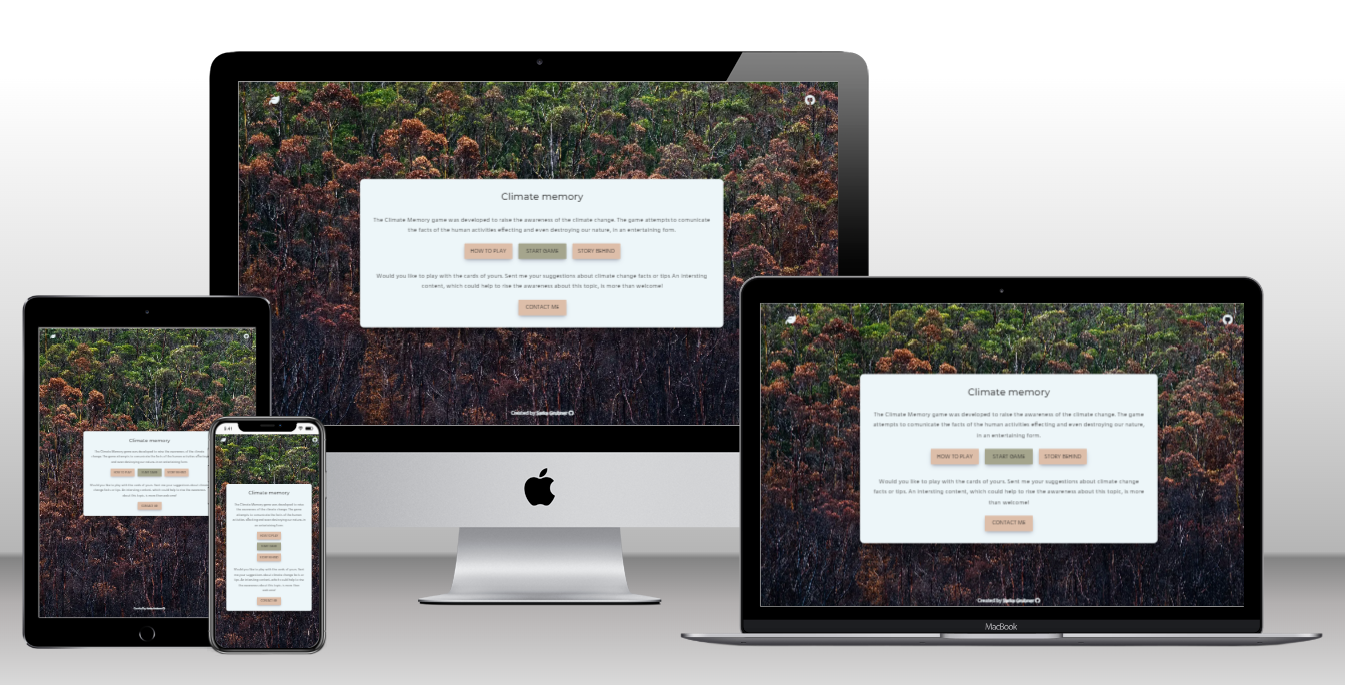
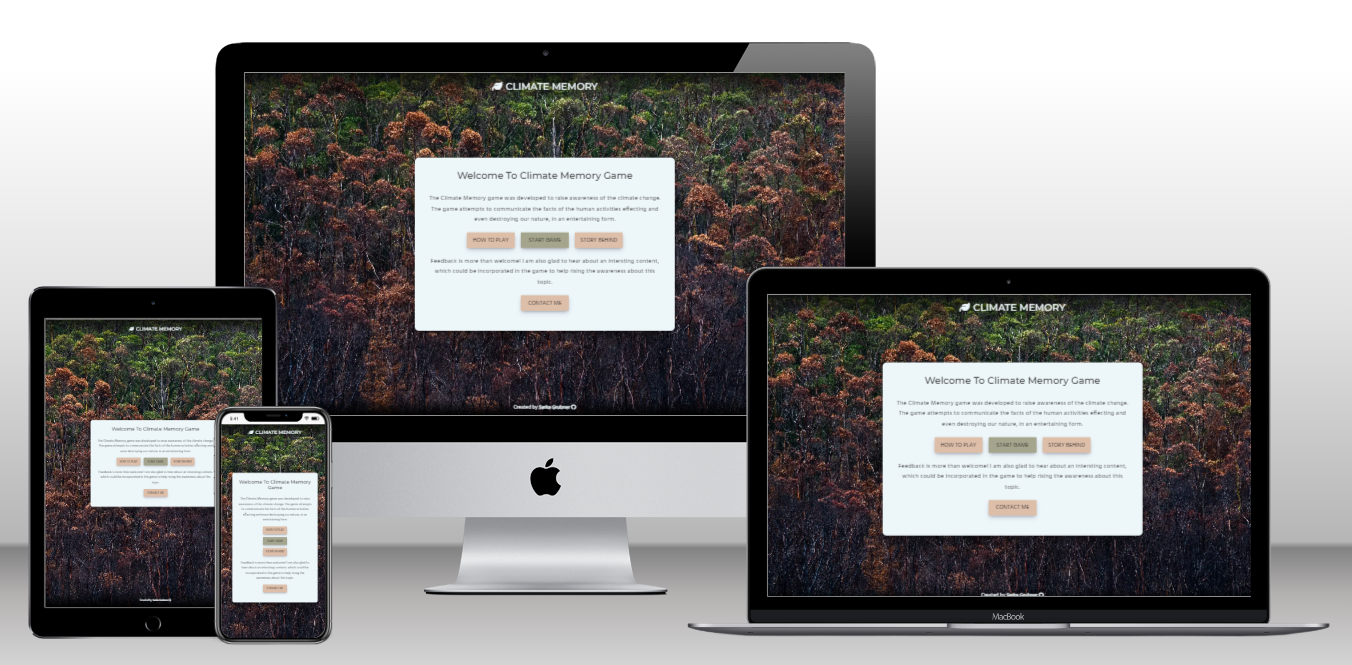
docs: adjust small details

Changed region(s): [[0.0, 0.0602, 1.0, 0.9925]]

diff --git a/README.md b/README.md
@@ -69,9 +69,7 @@ The website layout reflects the user stories as well as the components which are
 ### Common Features
 - **Header**
     - The Header is located at the top of the website.
-    - The Header displays two icons:
-        - The logo of the game navigates the user to the homepage (US6).
-        - The GitHub icon navigates the user to the GitHub profile of the developer (US5, US6).
+    - The Header displays the logo of the game.
 
     ![Header](./assets/docs/features/features_header.png)
 
@@ -132,14 +130,20 @@ The webpage additionally contains two hidden pages:
 - **404** page is displayed in case of an invalid URL, view [404 Page](./assets/docs/features/features_404.png)
 
 ### Differences to Design
-- Topics: 
-    - The initial plan was to have the cards separated into topics, which the user can select. This will be implemented in the next iteration.
-    - Possible solution is mainly to modify the data load in order to generate the cards content. 
+- **Additional Features**
+    - The Header and Footer components were originally not considered in the design.
+    - The Contact Me modal was added to enable contacting the developer.
+
+- **Not yet implented Features**
+    - **Topics** 
+        - The initial plan was to have the cards separated into topics, which the user can select. This will be implemented in the next iteration.
+        - Possible solution is mainly to modify the data load in order to generate the cards content. 
         - The pop up window offering the user to click on different buttons related to the different topics.
         - Each topic is related to a separated json file, containing the data to generate the cards.
         - The buttons have the event listener on click firing the load data function. The function received the path to the json file depending on the selected topic. 
         - This would require to select all buttons with a specific data attribute and to use the `switch` operator to get the correct data, i.e. load correct data. 
-- User Chart or Progress: There are two options. Either to use the [localstorage](https://developer.mozilla.org/en-US/docs/Web/API/Window/localStorage) or the [Google sheets API](https://developers.google.com/sheets/api/quickstart/js).
+    - **User Chart or Progress**
+        - There are two options to implement this feature in the next iteration. Either to use the [localstorage](https://developer.mozilla.org/en-US/docs/Web/API/Window/localStorage) or the [Google sheets API](https://developers.google.com/sheets/api/quickstart/js).
 
 ### Future Enhancements
 - Additional language could be used to target more users.
@@ -224,6 +228,7 @@ The repository can also be cloned locally, the steps are following:
 - [Formsubmit](https://formsubmit.co/) was used for the form submission.
 - [Mockup Generator](https://techsini.com/multi-mockup/?url=http://www.example.com) was used to generate the mockup for README.
 - [Balsamiq](https://balsamiq.com/wireframes/?gad=1&gclid=CjwKCAjwg-GjBhBnEiwAMUvNW8jCWKFMpgnd5PZlvwNQGIt7xJ05Fes_JeSsBSzyr7ToVpReN5VdOBoC80UQAvD_BwE) was used to create wireframes.
+- [Markdown Generator](https://tabletomarkdown.com/convert-spreadsheet-to-markdown/)
 
 ## Acknowledgements
-I would like to thank my mentors, Gareth and Daisy McGirr, for their guidance throughout my project and their valuable inputs. I would like to give a mention to a friend of my husband for his time and for giving me valuable feedback on my source code. He has provided me with information about the best practices. And my special thanks go to my husband for being supportive during the development of the webpage.
+I would like to thank my mentors, [Gareth McGirr](https://github.com/Gareth-McGirr) and [Daisy McGirr](https://github.com/Daisy-McG), for their guidance through my project and their valuable inputs. I would like to give a mention to [Lammer Helmuth](https://github.com/lammer-technikum?tab=overview&from=2023-05-01&to=2023-05-31) for his time and for giving me valuable feedback on my source code. He has provided me with information about the best practices. And my special thanks go to my husband for being supportive during the development of the webpage.
